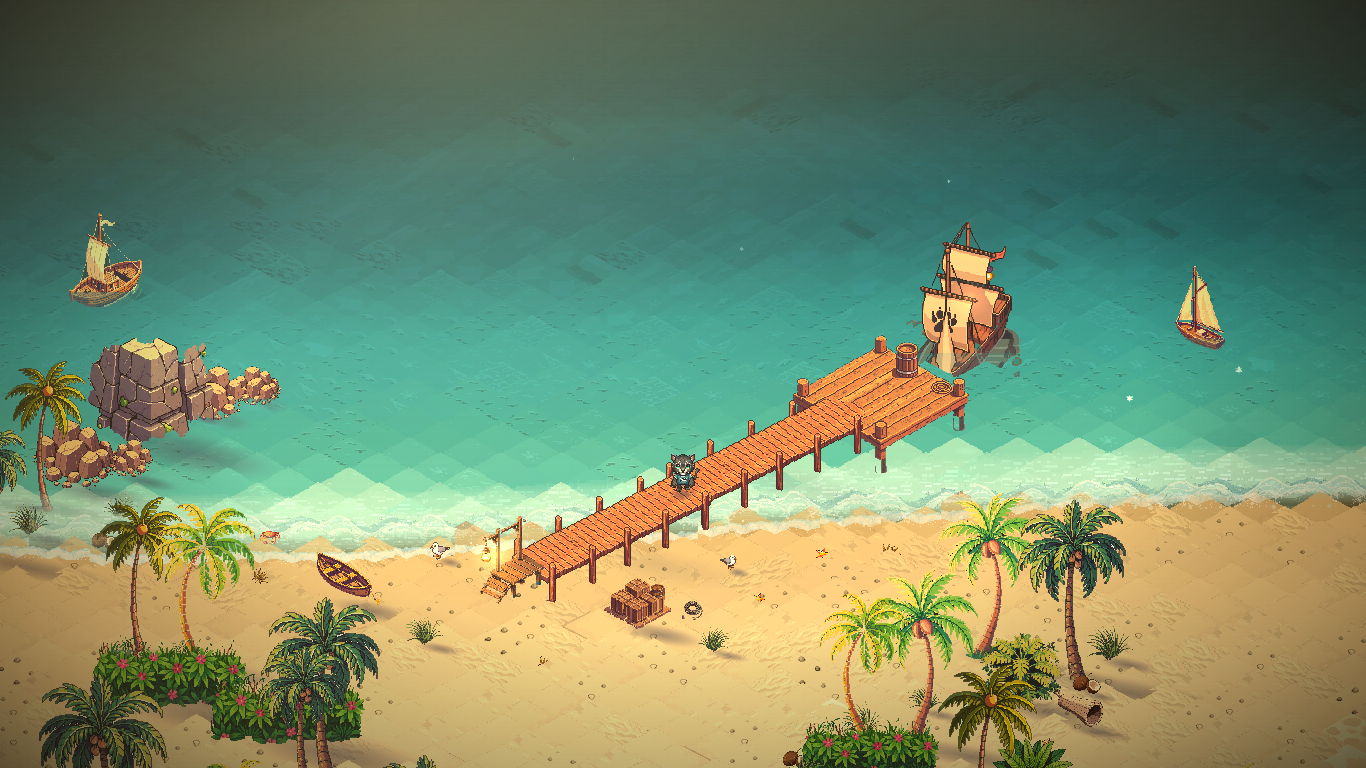
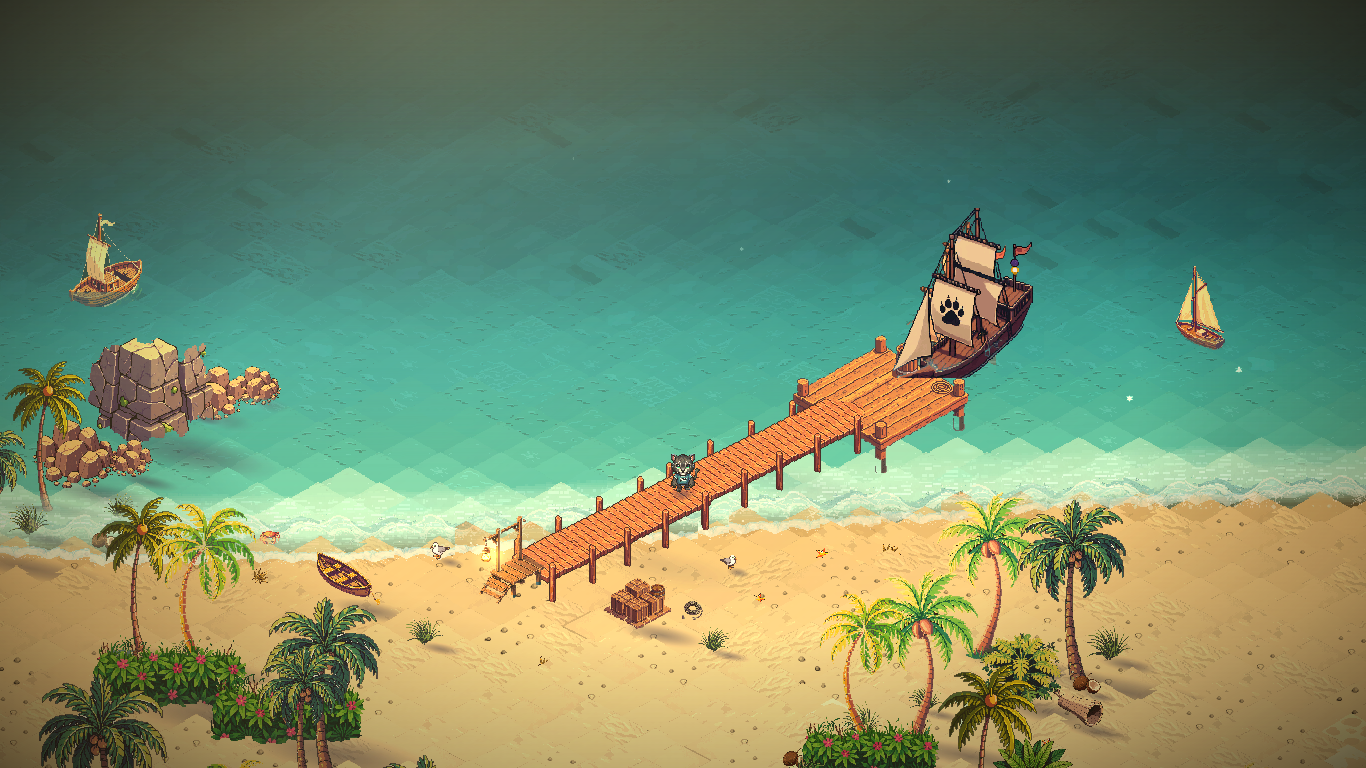
the title ship is whole again, she is already under way when the cover lifts, she lies along the harbour when she ties up, and the question mark is on the beach too

Changed region(s): [[0.6457, 0.2812, 0.7687, 0.5]]

diff --git a/src/game/pmap/PmapScene.tsx b/src/game/pmap/PmapScene.tsx
@@ -5694,6 +5694,40 @@ export default function PmapScene() {
        * a hull is arriving on it or leaving on it. This was two expressions with
        * two answers: casting off read only "east", so a berth facing south put a
        * boat out pointing west into its own island. */
+      /* THE DIRECTION THE DOCK RUNS, near a point, in painting radians.
+       *
+       * A principal-axis fit over the standable pixels around the berth: the
+       * quay and the jetty are the only ground out there, so the biggest
+       * eigenvector of their spread IS the harbour's own line. `near` is the
+       * heading to break the tie between the two ways along it.
+       *
+       * Falls back to the heading it was given when there is not enough ground
+       * to fit, which is the honest answer for a berth in open water. */
+      const dockAxis = (bx: number, by: number, near: number): number => {
+        const R = 52, STEP = 3
+        let n = 0, mx = 0, my = 0
+        const pts: [number, number][] = []
+        for (let y = by - R; y <= by + R; y += STEP) {
+          for (let x = bx - R; x <= bx + R; x += STEP) {
+            if (Math.hypot(x - bx, y - by) > R || !canStand(x, y)) continue
+            pts.push([x, y]); mx += x; my += y; n++
+          }
+        }
+        if (n < 12) return near
+        mx /= n; my /= n
+        let xx = 0, xy = 0, yy = 0
+        for (const [x, y] of pts) {
+          const dx = x - mx, dy = y - my
+          xx += dx * dx; xy += dx * dy; yy += dy * dy
+        }
+        /* the major axis of the covariance, which is one atan2 rather than an
+         * eigen solver: 0.5 * atan2(2b, a - c) */
+        const ang = 0.5 * Math.atan2(2 * xy, xx - yy)
+        /* and the end of it she is already pointing at */
+        const flip = Math.cos(ang - near) < 0 ? Math.PI : 0
+        return ang + flip
+      }
+
       const radOf = (f: string | undefined): number =>
         f === 'east' ? 0 : f === 'south' ? Math.PI / 2 : f === 'north' ? -Math.PI / 2 : Math.PI
 
@@ -5765,6 +5799,9 @@ export default function PmapScene() {
           endVoyage(new NotBuilt('route',
             `the crossing on "${voyage.path.name}" ended at ${at}, when the ship was put ashore`))
         }
+        /* read before she stops being a hull: it is the tie-breaker for which
+         * way along the dock she lies */
+        const cameInOn = hull.heading
         sailing = null
         sailingTo = null
         hull = null
@@ -5772,10 +5809,28 @@ export default function PmapScene() {
         if (hullSp) hullSp.visible = !!berth
         wakeG.clear()
         tiedUp = false
-        /* she is left at the berth, pointing the way the berth points */
+        /* SHE LIES ALONG THE HARBOUR, MEASURED OFF THE PAINTING.
+         *
+         * Ash, twice: "the boat still docks in the wrong orientation relative to
+         * the island and harbor isometrically." The berth carries a `facing`,
+         * and that word is a COMPASS BEARING typed on the ocean page: "north"
+         * means up the world, which on an isometric painting is not the way the
+         * jetty runs. Measured against the live hub it was about forty five
+         * degrees out, and the painted rowboats tied up beside her all lie the
+         * other way.
+         *
+         * So the heading is read off the dock instead. The walkable pixels
+         * around the berth ARE the jetty and the quay, and their principal axis
+         * is the line the harbour was drawn along; a moored hull lies on it.
+         * That is derived from the map, so it is right on the next harbour
+         * somebody paints without anybody typing a bearing.
+         *
+         * OF THE TWO WAYS ALONG THAT LINE, SHE KEEPS THE ONE SHE CAME IN ON, so
+         * tying up is never a hull spinning through a hundred and eighty
+         * degrees at the moment she stops. */
         if (berth) {
           const at = fromSea(berth.x, berth.y)
-          moored = { x: at.x, y: at.y, heading: radOf(berth.facing) }
+          moored = { x: at.x, y: at.y, heading: dockAxis(at.x, at.y, cameInOn) }
         }
         thor.sp.visible = true; thor.sh.visible = true; pinWanted = true
         camFree = false
@@ -6047,6 +6102,24 @@ export default function PmapScene() {
          * The berth is the thing she is making for, so the heading is the line to
          * it and not the reverse of the line out. */
         hull.heading = Math.atan2(b.y - out.y, b.x - out.x)
+        /* AND SHE ALREADY HAS WAY ON WHEN THE COVER LIFTS.
+         *
+         * Ash, watching the deploy: "the biggest problem here is that sometimes
+         * the boat can freeze, before starting normally. we want an instant view
+         * of the boat moving as soon as the transition screen goes away. not a
+         * pause."
+         *
+         * That pause is real and it is not a stall: the hull is born here, at
+         * load, and nothing moves her until the island's `on_start` reaches
+         * `route(..., who="ship")`, which is on the far side of a worker boot
+         * and an HTTP fetch. On the dev server that is under two seconds and on
+         * the deploy it has been measured at eight.
+         *
+         * A ship arriving is a ship UNDER WAY, so she is born at cruise on the
+         * line to the berth. `stepHull` carries her from the first frame, and
+         * when the follower does pick her up it is a course correction on a boat
+         * already moving rather than a start from dead. */
+        hull.speed = DEFAULT_SAIL.cruise
         if (hullSp) { hullSp.position.set(hull.x, hull.y); hullSp.zIndex = OVER_PLACED + hull.y }
         /* THE CAMERA IS ALREADY OUT WHEN THE COVER LIFTS. `zoomTo` asks the follow
          * law to travel, and a travel under a cover is a zoom the student never

diff --git a/src/game/BeachIso.tsx b/src/game/BeachIso.tsx
@@ -432,6 +432,9 @@ export default function BeachIso({ onStage }: { onStage?: (s: BeachStage) => voi
       // drift + coherent mirroring carry the de-gridding instead.)
       // ---- AMBIENT LIFE ----
       const shadowTexLife = makeShadow()
+      /* the light version, for a contact pool ON WATER rather than a shadow on
+       * sand. See the ship's own ring for why the two are not the same thing. */
+      const wakeTexLife = makeWakePool()
       // crabs skitter along the wrack line in quick sideways bursts, then freeze
       type Crab = { sp: Sprite; sh: Sprite; d: number; s: number; home: number; tgt: number; next: number; speed: number }
       const crabs: Crab[] = []
@@ -784,8 +787,19 @@ export default function BeachIso({ onStage }: { onStage?: (s: BeachStage) => voi
           // 1.55 tiles off the NE edge + 0.3 up along it: the hull clears the corner post
           const bx0 = plat.x + 169.5 + 1.55 * HW - 0.3 * HW, by0 = plat.y + 63.5 - 1.55 * HH - 0.3 * HH
           const btx = (bx0 / HW + by0 / HH) / 2, bty = (by0 / HH - bx0 / HW) / 2
-          const ring = new Sprite(shadowTexLife); ring.anchor.set(0.5)
-          ring.tint = 0xeafff6; ring.blendMode = 'add'
+          /* THE WATERLINE POOL, AND IT IS A LIGHT TEXTURE RATHER THAN A DARK
+           * ONE TINTED PALE.
+           *
+           * Ash, 2026-09-06, on the title page: "the ship on the landing page
+           * is busted." What is under her is this: a soft dark ellipse the size
+           * of the hull, sitting down and to the right of her. Every other pool
+           * in this file is `makeShadow()` (a violet-teal SHADOW) tinted almost
+           * white and blended additively, which cancels to nearly nothing when
+           * the blend takes and draws a dark blob when it does not. A contact
+           * pool on water is LIGHT, so it is drawn light, and then it reads the
+           * same whichever way the blend resolves. */
+          const ring = new Sprite(wakeTexLife); ring.anchor.set(0.5)
+          ring.blendMode = 'add'
           world.addChild(ring)
           const hull = new Sprite()
           world.addChild(hull)
@@ -1519,7 +1533,10 @@ export default function BeachIso({ onStage }: { onStage?: (s: BeachStage) => voi
           V.ring.alpha = 0.34 + 0.08 * Math.sin(bt * 0.55 + 1.1) + Math.min(0.1, Math.abs(V.spd) * 1.6)
           const rw = M.w * 1.22 + Math.min(22, Math.abs(V.spd) * 260)
           V.ring.width = rw
-          V.ring.height = Math.max(rw * 0.23, M.w < 110 ? 38 : 0) // bow-on hulls get a rounder pool
+          /* a bow-on hull gets a rounder pool, and 38 was half the height of the
+           * ship: on the title page, where she lies almost bow-on, that drew a
+           * pool taller than her own deck. Twenty is a waterline. */
+          V.ring.height = Math.max(rw * 0.23, M.w < 110 ? 20 : 0)
           const hc = Math.cos(heel), hs = Math.sin(heel) // offsets lean with the hull (pivot = waterline center)
           const gl = glows[V.glowI]
           gl.sp.position.set(bxp + M.lampX * hc - M.lampY * hs, byp + M.lampX * hs + M.lampY * hc + V.bob)
@@ -1815,6 +1832,19 @@ function makeFleck(a: number, b: number) {
   ctx.fillStyle = hx(a); ctx.beginPath(); ctx.ellipse(6, 6, 3.4, 2, 0, 0, Math.PI * 2); ctx.fill()
   const t = Texture.from(cv); t.source.scaleMode = 'nearest'; return t
 }
+/* A PALE POOL, for the waterline contact under a floating hull. `makeShadow`
+ * beside it is the SAND shadow and is deliberately dark; a hull does not cast
+ * one of those onto the sea, it displaces light. */
+function makeWakePool() {
+  const cv = document.createElement('canvas'); cv.width = cv.height = 64
+  const ctx = cv.getContext('2d')!, g = ctx.createRadialGradient(32, 32, 0, 32, 32, 32)
+  g.addColorStop(0, 'rgba(226,255,247,0.85)')
+  g.addColorStop(0.5, 'rgba(200,246,240,0.35)')
+  g.addColorStop(1, 'rgba(190,240,236,0)')
+  ctx.fillStyle = g; ctx.fillRect(0, 0, 64, 64)
+  const t = Texture.from(cv); t.source.scaleMode = 'linear'; return t
+}
+
 function makeShadow() {
   // cool violet-teal shadow (golden hour shadows go cool, never black or gray) — a dense core
   // that still registers over bright sand, feathering out

diff --git a/src/game/intro/IntroScene.tsx b/src/game/intro/IntroScene.tsx
@@ -10,9 +10,11 @@ import { loadSave, writeSave } from '../save'
 import { track } from '../telemetry'
 import { GearButton, SettingsPanel } from '../../app/SettingsPanel'
 import { Hud } from '../hud/Hud'
+import { HelpButton } from '../hud/Help'
 import { useNav } from '../../app/SceneManager'
 import { SEA_ARRIVAL, enterMap } from '../pmap/route'
 import { warmMap } from '../pmap/warm'
+import { setCinema } from '../stage/cinema'
 
 // The intro lives ON the beach — one scene, playable and stageable. A fresh player gets the
 // I-1/I-2 cutscene the moment the stage reports ready; a returning one just gets the cove.
@@ -73,6 +75,13 @@ export default function IntroScene() {
         /* the address goes down WITH the navigation and never without it, because
          * PmapScene reads its target off the url at mount (route.ts says why) */
         const go = navRef.current?.go
+        /* THE FRAME GOES UP BEFORE THE COVER DOES, so there is no frame of the
+         * corner showing between the transition lifting and the island saying
+         * `movie(True)`. Ash, watching it: "there can sometimes be a flash,
+         * where i can see the three buttons on the top right." The crossing is
+         * a watched stretch from the moment this button is pressed, and this is
+         * the one line in the game that knows that. */
+        setCinema(true)
         if (go) enterMap(go, SEA_ARRIVAL, { kind: 'scene', image: '/art/ui/loading-islands.png', title: 'THE BLHS ISLANDS', holdMs: 2600 })
       })
       /* AND THE HUB COMES DOWN WHILE HE IS STILL ON THE BEACH.
@@ -134,6 +143,14 @@ export default function IntroScene() {
       )}
       {/* free roam carries the real HUD (§11.1) + pause; the gear stays for muscle memory */}
       {!inCutscene && <Hud onBlurWorld={setBlurred} />}
+      {/* AND THE QUESTION MARK, THROUGH THE CUTSCENE AS WELL. Ash, 2026-09-06:
+          "the help button should also show on the beach map cutscene part too."
+          The corner is the run's furniture and stands down for a cutscene; this
+          is the one control that answers "I do not know what is happening", and
+          the beach opening is the first two minutes of the game, which is where
+          that question gets asked. It is the same component the painted maps
+          mount, so there is one question mark in the game and not two. */}
+      <HelpButton />
       {!inCutscene && <GearButton onClick={() => setSettingsOpen(true)} />}
       {settingsOpen && <SettingsPanel onClose={() => setSettingsOpen(false)} />}
       {preCover && <div style={{ position: 'absolute', inset: 0, background: '#05070a', zIndex: 60 }} />}
